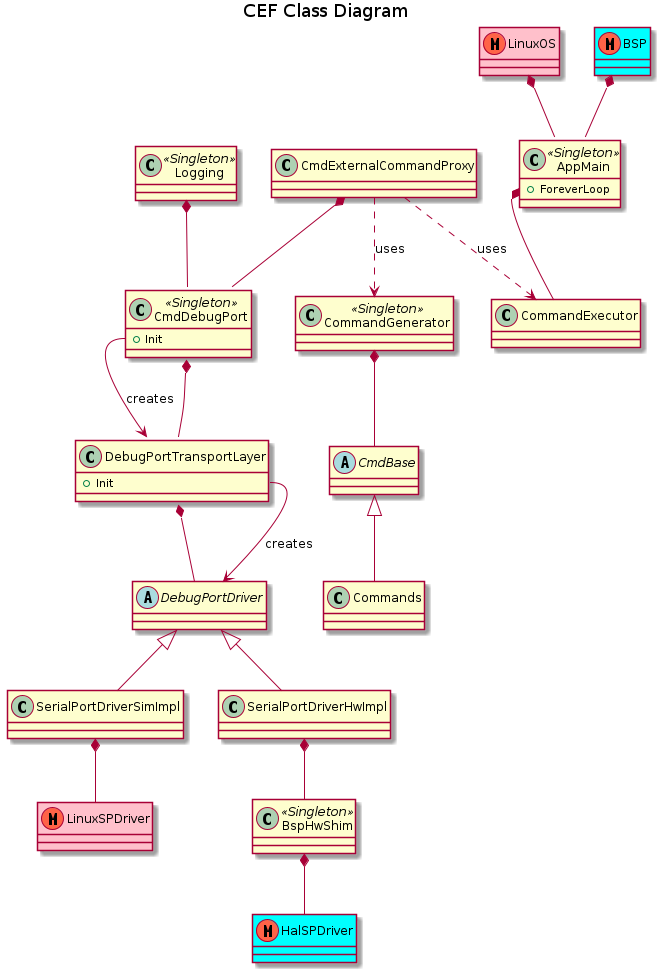
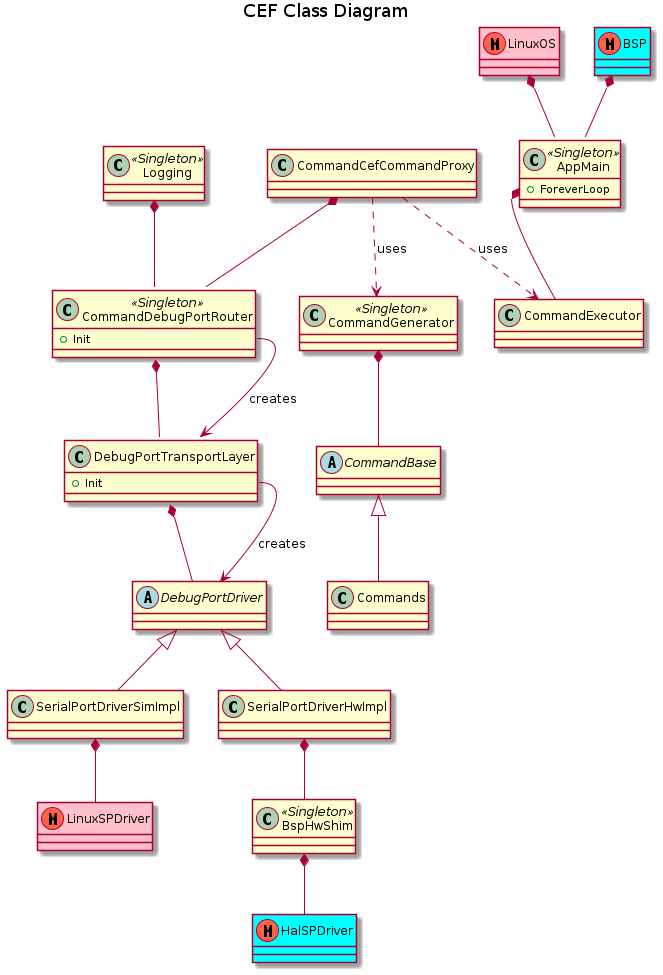
updated docs, instantiated Transport layer

diff --git a/Source/EmbeddedSw/AppMain/AppMain.cpp b/Source/EmbeddedSw/AppMain/AppMain.cpp
@@ -29,6 +29,7 @@ AppMain& AppMain::instance()
 	return appMainSingleton;
 }
 
+#if 0
 // These include files are just needed for testing.
 #include "main.h"
 #include "SerialPortDriverHwImpl.hpp"
@@ -39,7 +40,6 @@ uint8_t testSend[23] = {'U','A','R','T',' ','S','t','a','r','t',' ','S','u','c',
 DebugPortTransportLayer myTransport;
 static void tonyTesting(void)
 {
-
 	//debugPortDriver.startReceive(&receiveBuffer);
 	//extern UART_HandleTypeDef huart3;
 	//HAL_UART_Transmit_IT(&huart3, (uint8_t *)testSend, sizeof(testSend));
@@ -47,8 +47,14 @@ static void tonyTesting(void)
 	myTransport.transmitStateMachine();
 	myTransport.receiveStateMachine();
 
+}
+#else
+static void tonyTesting(void)
+{
 
 }
+#endif
+
 
 
 // These includes are needed just for the test code

diff --git a/Source/EmbeddedSw/Commands/DebugPortCommands/CommandDebugPortRouter.cpp b/Source/EmbeddedSw/Commands/DebugPortCommands/CommandDebugPortRouter.cpp
@@ -88,10 +88,10 @@ bool CommandDebugPortRouter::execute(CommandBase *p_childCommand)
             // Only execute the receive if not in fatal handling mode
             if (m_fatalErrorHandling == false)
             {
-                //@todo add in receive transport call
+                m_debugTransportLayer.receiveStateMachine();
             }
 
-            //@todo add in transmit transport call
+            m_debugTransportLayer.transmitStateMachine();
 
             // Finished with transport functions; exit, and try transport functions again next time
             shouldYield = true;

diff --git a/Source/EmbeddedSw/Commands/DebugPortCommands/CommandDebugPortRouter.hpp b/Source/EmbeddedSw/Commands/DebugPortCommands/CommandDebugPortRouter.hpp
@@ -32,6 +32,7 @@
 #include "BufferPoolBase.hpp"
 #include "cefContract.hpp"
 #include "CefBuffer.hpp"
+#include "DebugPortTransportLayer.hpp"
 
 class CommandDebugPortRouter: public CommandBase
 {
@@ -239,6 +240,9 @@ private:
      * the execute function in a log_fatal() situation.
      */
     bool m_executeActive;
+
+    //! Debug Port Transport Layer Object to be used by the Router
+    DebugPortTransportLayer m_debugTransportLayer;
 };
 
 #endif  // end header guard

diff --git a/Docs/ProjectDocs/DebugPort/DebugPortDescription.md b/Docs/ProjectDocs/DebugPort/DebugPortDescription.md
@@ -2,7 +2,7 @@
 
 ### Debug Communication
 
-Below is an overview of debug communication between Python Test Utilities and CEF.  Communication will consist of commands requests, command responses, and logging data.  Only one command request can be processed at a time.  Both the CEF and Python Test Utilities will have a common command document library to build and interpret commands requests and responses.  Communication will only be sent once, if it is not received the sender will not be aware of this and there will be no retries.  This decision was made to speed up development and can be implemented later if projects need this feature
+Below is an overview of debug communication between Python Test Utilities and CEF.  Communication will consist of commands requests, command responses, and logging data.  Only one command request can be processed at a time.  Both the CEF and Python Test Utilities will have a common command document library to build and interpret commands requests and responses.  Communication will only be sent once, if it is not received the sender will not be aware of this and there will be no retries.  This decision was made to speed up development and retries can be implemented later if projects need this feature.
 
 ##### Python Test Utilities - User Debug
 
@@ -13,13 +13,13 @@ The python test utilities provide the user debug console.  In this console the u
 The communication layers job is to handle all incoming and outgoing communication with Python Test Utilities.  It will send, logging data, command responses, and receive command requests.  It is also responsible for constructing and deconstructing packet header and checksum.
 
 * Receive
-
+  
   * CEF only fulfills one command request at a time.  When CEF is not in currently fulfilling a command request CEF communication layer must enable receiving to be able receive next command request from console user debug.  Receiving will be done on interrupts in order to stay non-blocking.
-  * CEF command layer is responsible for decoding the debug port packet, it is CEF main responsbility to poll the command layer in order to see if a command has been recieved.
+  * CEF command layer is responsible for decoding the debug port packet.  AppMain() responsibile to poll the Router, which in turn polls the Transport in order to see if a command has been recieved.
 * Transmit
-
+  
   * CEF can transmit both command response and Logging information.  Command responses will take priority over logging if both are ready at the same time.  The packet for each will be the same with a different 8-bit debug packet type.
-  * CEF Communication layer is responsible for packaging debug port packet header, data packet, and checksum.
+  * CEF Transport layer is responsible for packaging debug port packet header, data packet, and checksum.
   * The data will be transmitted on interrupts in order to stay non-blocking.
 
 ##### CEF Main
@@ -36,19 +36,18 @@ Debug Port Packets (528 bytes) – The debug port packet is the communication be
 
 ##### Debug Header Packet
 
-Debug header packet is 12 bytes to indicate the following.
+Debug header packet is 16 bytes to indicate the following.
 
 * Framing Signature - 4 bytes
-* Number of Bytes in Packet - 4 bytes
+* Payload Checksum - 4 bytes
+* Number of Bytes in Payload - 4 bytes
 * Debug type (logging, CEF command request, CEF command response) - 1 byte
-* Reserve - 3 bytes
+* Reserve - 1 byte
+* Header Checksum - 2 bytes
 
 ##### Debug Payload Packet
 
 Debug payload is a maximum of 512 bytes.  Command request and response will be “decoded” by a “shared” command file between CEF system and user debug.  This will help limit the amount of data that needs to be sent.
 
-##### Checksum
-
-The packet will end in a 4 byte checksum.
-
 ![DebugPortPacket](./DocsSource/DebugPortPacket.png)
+
